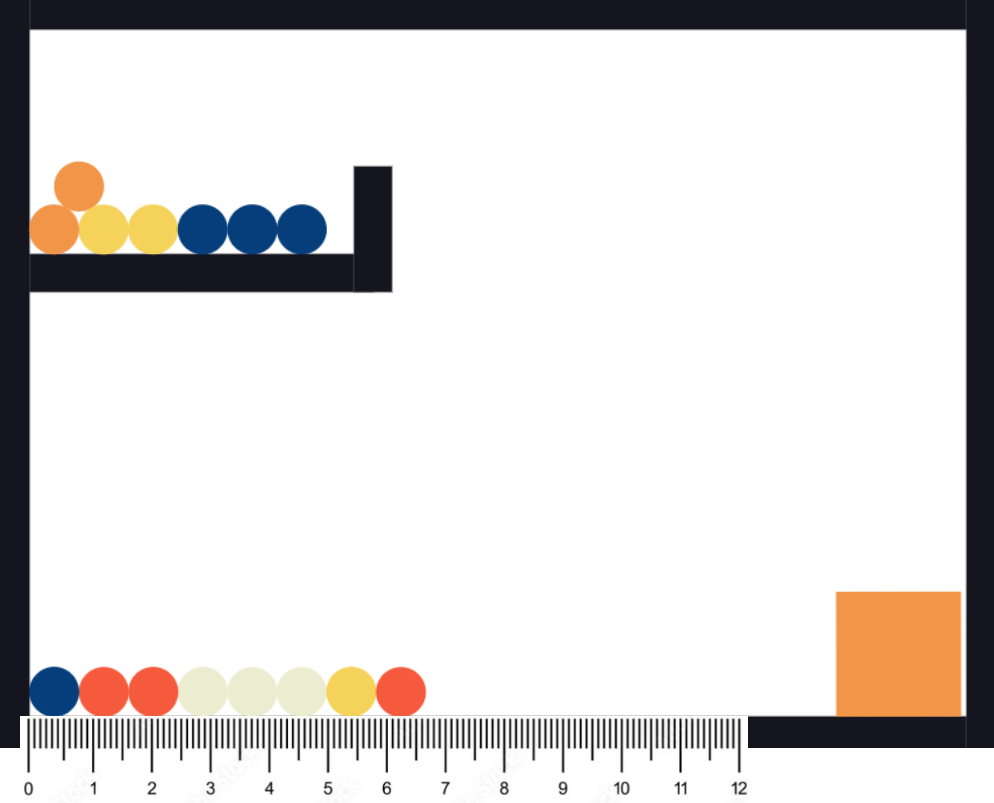
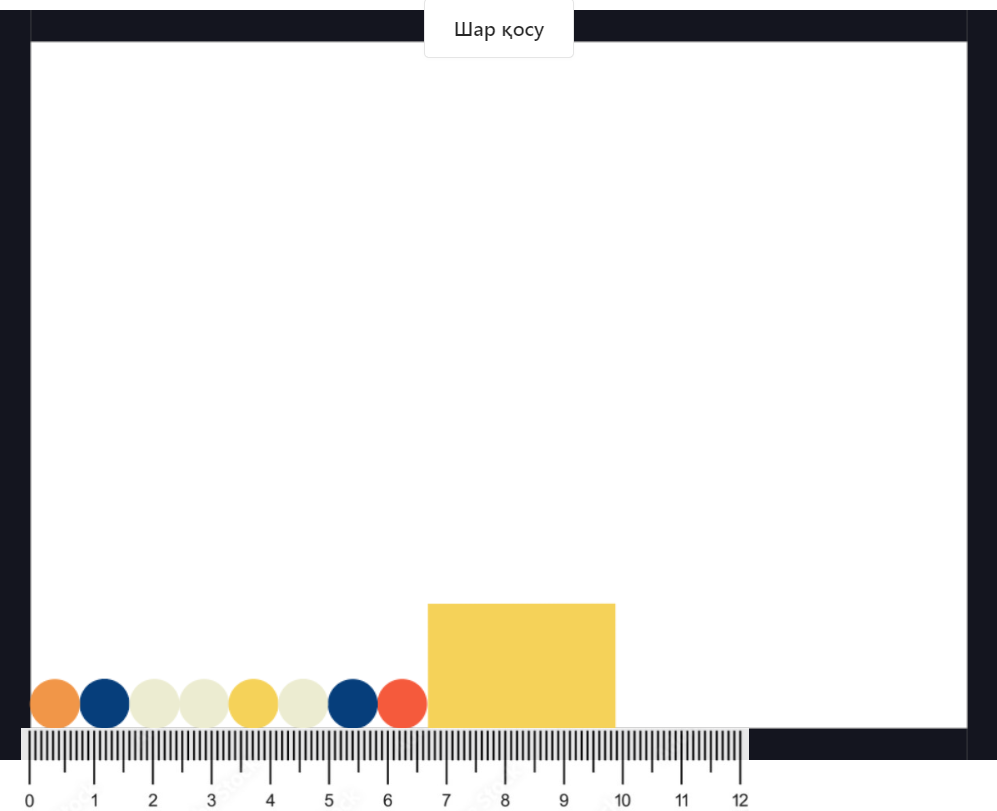
correcteb lab page

Changed region(s): [[0.0, 0.0, 1.0, 0.9963], [0.0312, 0.1868, 0.4054, 0.3736]]

diff --git a/labs/labPage2.html b/labs/labPage2.html
@@ -1,0 +1,46 @@
+<!DOCTYPE html>
+<html lang="en">
+<head>
+    <meta charset="UTF-8">
+    <meta name="viewport" content="width=device-width, initial-scale=1.0">
+    <title>Document</title>
+    <link rel="stylesheet" href="labPage.css">
+</head>
+<body>
+    <a href="../index.html"><button class="backLink">Басты бетке өту</button></a>
+    <div class="content">
+    <h1 class="labNum">Зертханалық жұмыс №2</h1>
+    <h3 class="labTitle">Тақырыбы:</h3><p>Физикалық шамаларды өлшеу</p>
+    <h3 class="goal">Мақсаты:</h3><p> ұзындықты және уақытты өлшейтін құралдардың бөліктерінің құнын анықтау; сынып үстелінің енін, ұзындығын өлшеп, ауданын табу; физика оқулығының көлемін табу; кішігірім денелердің әртүрлі биіктіктен құлау уақыттарын есептеу.</p>
+    <h3 class="instruments">Құрал-жабдықтар:</h3><p> сызғыш, миллиметр, сантиметр, дециметр және метрлерге бөлінген таспа (рулетка); секундомер және секундтік тілі бар сағат; 10 теңгелік тиын, теннис шаригі.</p>
+    <h3>1-тапсырма.</h3>
+    <p>Оқушы үстелінің ауданын және физика оқулығының көлемін халықаралық бірліктер жүйесінде табу</p>
+    <h4>Жұмыстың барысы:</h4>
+    <ul style="list-style: decimal;">
+        <li>
+            Оқушы үстелінің ұзындығын (х) және енін (у) өлшеу арқылы оның ауданын (S=х*у) халықаралық бірліктер жүйесінде екі сандық дәлдікпен анықтаңдар.
+        </li>
+        <li>
+            Физика оқулығының ұзындығын (х), енін (у) және қалыңдығын (z) өлшеп, көлемін (V= х*у*z) халықаралық бірліктер жүйесінде үш цифрлық дәлдікпен табыңдар.:
+        </li>
+    </ul>
+    <div style="text-align: center;">
+        <a href="lab2.1.html"><button class="simulationButton">Тапсырманың симуляциясы</button></a>
+    </div>
+    <h3>2-тапсырма.</h3>
+    <p>10 немесе 20 теңгелік монета мен теннис шаригінің әртурлі биіктіктен құлау уақыттарын табу </p>
+    <h4>Жұмыстың барысы:</h4>
+    <ul style="list-style: decimal;">
+        <li>
+            Монета мен теннис шаригінің h1 =1 м және h2 =2 метр биіктіктен еденге құлаған уақыттарын секундтік дәлдікпен үш рет өлшеп табыңдар.
+        </li>
+        <li>
+            Физика оқулығының ұзындығын (х), енін (у) және қалыңдығын (z) өлшеп, көлемін (V= х*у*z) халықаралық бірліктер жүйесінде үш цифрлық дәлдікпен табыңдар.:
+        </li>
+    </ul>
+    <div style="text-align: center;">
+        <a href="lab1.html"><button class="simulationButton">Тапсырманың симуляциясы</button></a>
+    </div>
+</div>
+</body>
+</html>

diff --git a/labs/labPage1.html b/labs/labPage1.html
@@ -1,0 +1,39 @@
+<!DOCTYPE html>
+<html lang="en">
+<head>
+    <meta charset="UTF-8">
+    <meta name="viewport" content="width=device-width, initial-scale=1.0">
+    <title>Document</title>
+    <link rel="stylesheet" href="labPage.css">
+</head>
+<body>
+    <a href="../index.html"><button class="backLink">Басты бетке өту</button></a>
+    <div class="content">
+    <h1 class="labNum">Зертханалық жұмыс №1</h1>
+    <h3 class="labTitle">Тақырыбы:</h3><p>кішкентай денелердің өлшемін анықтау.</p>
+    <h3 class="goal">Мақсаты:</h3><p> қатарлау тәсілімен өлшеп үйрену.</p>
+    <h3 class="instruments">Құрал-жабдықтар:</h3><p> сызғыш, кішкентай денелердің жиынтығы, астауша, бұранда, бұранда шеге, гайка.</p>
+    <h4>Жұмыстың барысы:</h4>
+    <ul style="list-style: decimal;">
+        <li>
+            Астаушаға шариктердің бірнешеуін салыңдар да, оның екі жағындағы жылжымалы тиекті қозғай отырып, оларды бір-біріне түйістіріңдер. Сызғышпен  екі тиектің ара қашықтығын өлшеп алыңдар. Оны астаушадағы шариктердің санына бөліп, бір шариктің диаметрін анықтаңдар:
+            <div class="formulaDivide">
+                <i>d = 
+                 <div class="fraction">
+                 <span class="fup">L</span>
+                 <span class="bar">/</span>
+                 <span class="fdn">N</span>
+                 </div>
+               </div></i>
+        </li>
+        <li>
+            Ұсақ денелердің өлшемдерін анықтайтын мұндай тәсіл қатарлау тәсілі деп аталады. Қатарлау тәсілімен жоғарыда аталған басқа да материалдардың өлшемдерін (диаметрлерін) анықтауға болады.
+        </li>
+    </ul>
+    <img src="../assets/lab1Balls.png">
+    <div style="text-align: center;">
+    <a href="lab1.html"><button class="simulationButton">Зертханалық жұмыстың симуляциясы</button></a>
+</div>
+</div>
+</body>
+</html>

diff --git a/labs/labPage.css b/labs/labPage.css
@@ -11,5 +11,91 @@ body{
     left: 1vw;
 }
 .content{
-    width: 80vw;
+    width: 70vw;
+}
+.labNum{
+    text-align: center;
+}
+.fraction {
+    display: inline-block;
+    vertical-align: middle; 
+    margin: 0 0.2em 0.4ex;
+    text-align: center;
+    
+  }
+.fraction > span{
+display: block;
+padding-top: 0.15em;
+}
+.fraction span .fdn{
+    border-top: thin solid black;
+}
+.fraction span .bar{
+    display: none;
+}
+.simulationButton{
+    margin-top: 3vh;
+  
+    appearance: none;
+    background-color: #000000;
+    border: 2px solid #1A1A1A;
+    border-radius: 15px;
+    box-sizing: border-box;
+    color: #FFFFFF;
+    cursor: pointer;
+    display: inline-block;
+    font-family: Roobert,-apple-system,BlinkMacSystemFont,"Segoe UI",Helvetica,Arial,sans-serif,"Apple Color Emoji","Segoe UI Emoji","Segoe UI Symbol";
+    font-size: 16px;
+    font-weight: 600;
+    line-height: normal;
+    margin: 0;
+    min-height: 60px;
+    min-width: 0;
+    outline: none;
+    padding: 16px 24px;
+    text-align: center;
+    text-decoration: none;
+    transition: all 300ms cubic-bezier(.23, 1, 0.32, 1);
+    user-select: none;
+    -webkit-user-select: none;
+    touch-action: manipulation;
+    will-change: transform;
+}
+
+.simulationButton:hover {
+  box-shadow: rgba(0, 0, 0, 0.25) 0 8px 15px;
+  transform: translateY(-2px);
+}
+
+
+
+.backLink {
+  align-items: center;
+  background-color: rgba(240, 240, 240, 0.86);
+  border: 1px solid #DFDFDF;
+  border-radius: 16px;
+  box-sizing: border-box;
+  color: #000000;
+  cursor: pointer;
+  display: flex;
+  font-family: Inter, sans-serif;
+  font-size: 14px;
+  justify-content: center;
+  line-height: 28px;
+  max-width: 100%;
+  padding: 8px 22px;
+  text-decoration: none;
+  transition: all .2s;
+  user-select: none;
+  -webkit-user-select: none;
+  touch-action: manipulation;
+}
+
+.backLink:hover {
+  outline: 0;
+}
+
+.backLink:hover {
+  background-color: #FFFFFF;
+  border-color: rgba(0, 0, 0, 0.19);
 }

diff --git a/labs/lab1.js b/labs/lab1.js
@@ -30,43 +30,23 @@ var runner = Runner.create();
 Runner.run(runner, engine);
 
 // add bodies
-var stack = Composites.stack(
-  0,
-  500 - 21 - 20 * 20,
-  5,
-  3,
-  20,
-  0,
-  function (x, y) {
-    return Bodies.circle(x, y, 20, {
-      elem: document.querySelector("#box"),
-      render: {
-        fillStyle: "#FFD700",
-        strokeStyle: "black",
-        lineWidth: 1,
-        // sprite: {
-        //   texture: "../assets/Red-Ball-PNG-Clipart.png",
-        //   xScale: 0.06,
-        //   yScale: 0.06,
-        // },
-      },
-    });
-  }
-);
 
-var door = Bodies.rectangle(700, 20, 100, 100);
+var door = Bodies.rectangle(700, 0, 150, 100);
 
 Composite.add(world, [
   // walls
-  Bodies.rectangle(150, 220, 300, 30, { isStatic: true }),
-  Bodies.rectangle(300, 185, 30, 100, { isStatic: true }),
   Bodies.rectangle(400, 0, 800, 50, { isStatic: true }),
   Bodies.rectangle(400, 600, 800, 50, { isStatic: true }),
   Bodies.rectangle(800, 300, 50, 600, { isStatic: true }),
   Bodies.rectangle(0, 300, 50, 600, { isStatic: true }),
-  stack,
   door,
 ]);
+
+function addBall() {
+  ball = Bodies.circle(Math.random() * 100, 300, 20);
+  Composite.add(world, ball);
+}
+
 // add mouse control
 var mouse = Mouse.create(render.canvas),
   mouseConstraint = MouseConstraint.create(engine, {

diff --git a/index.html b/index.html
@@ -11,7 +11,7 @@
     <h1>Зертханалық жұмыстар</h1>
     <ul class="labsBlock">
         <li class="labBlock">
-            <a href="labs/lab1.html">
+            <a href="labs/labPage1.html">
                 <div class="labBlock">
                     <div class="labImg img1"></div>
                     <p>1 Зертханалық жұмыс</p>
@@ -19,18 +19,10 @@
             </a>
         </li>
         <li class="labBlock">
-            <a href="labs/lab2.html">
+            <a href="labs/labPage2.html">
                 <div class="labBlock">
                     <div class="labImg img2"></div>
                     <p>2 Зертханалық жұмыс</p>
-                </div>
-            </a>
-        </li>
-        <li class="labBlock">
-            <a href="labs/labPage.html">
-                <div class="labBlock">
-                    <div class="labImg img2"></div>
-                    <p>Lab Page</p>
                 </div>
             </a>
         </li>

diff --git a/styles.css b/styles.css
@@ -1,9 +1,16 @@
+body{
+    box-sizing: border-box;
+    margin: 0;
+    background-color: #f3e8e4;
+    text-align: center;
+}
 .labsBlock{
     display: flex;
     justify-content: space-around;
 }
 
 .labBlock{
+    background-color: white;
     width: 20vw;
     height: 30vh;
     border-radius: 1vw;
@@ -33,7 +40,7 @@
     border-top-right-radius: 1vw;
 }
 .labImg.img2{
-    background: url(assets/256893352_4649246145136227_8756954835593250977_n.png) no-repeat;
+    background: url(assets/lab2.png) no-repeat;
     background-size: contain;
     background-position: center;
     border-top-left-radius: 1vw;

diff --git a/labs/lab1.html b/labs/lab1.html
@@ -9,6 +9,7 @@
 
 </head>
 <body>
+    <button onclick="addBall()" class="rotateBook">Шар қосу</button>
     <div class="ruler"></div>
     <script src="lab1.js"></script>
 </body>

diff --git a/labs/styles.css b/labs/styles.css
@@ -68,3 +68,5 @@ html, body {
 .rotateBook:hover {
   transform: translateY(-1px);
 }
+
+
